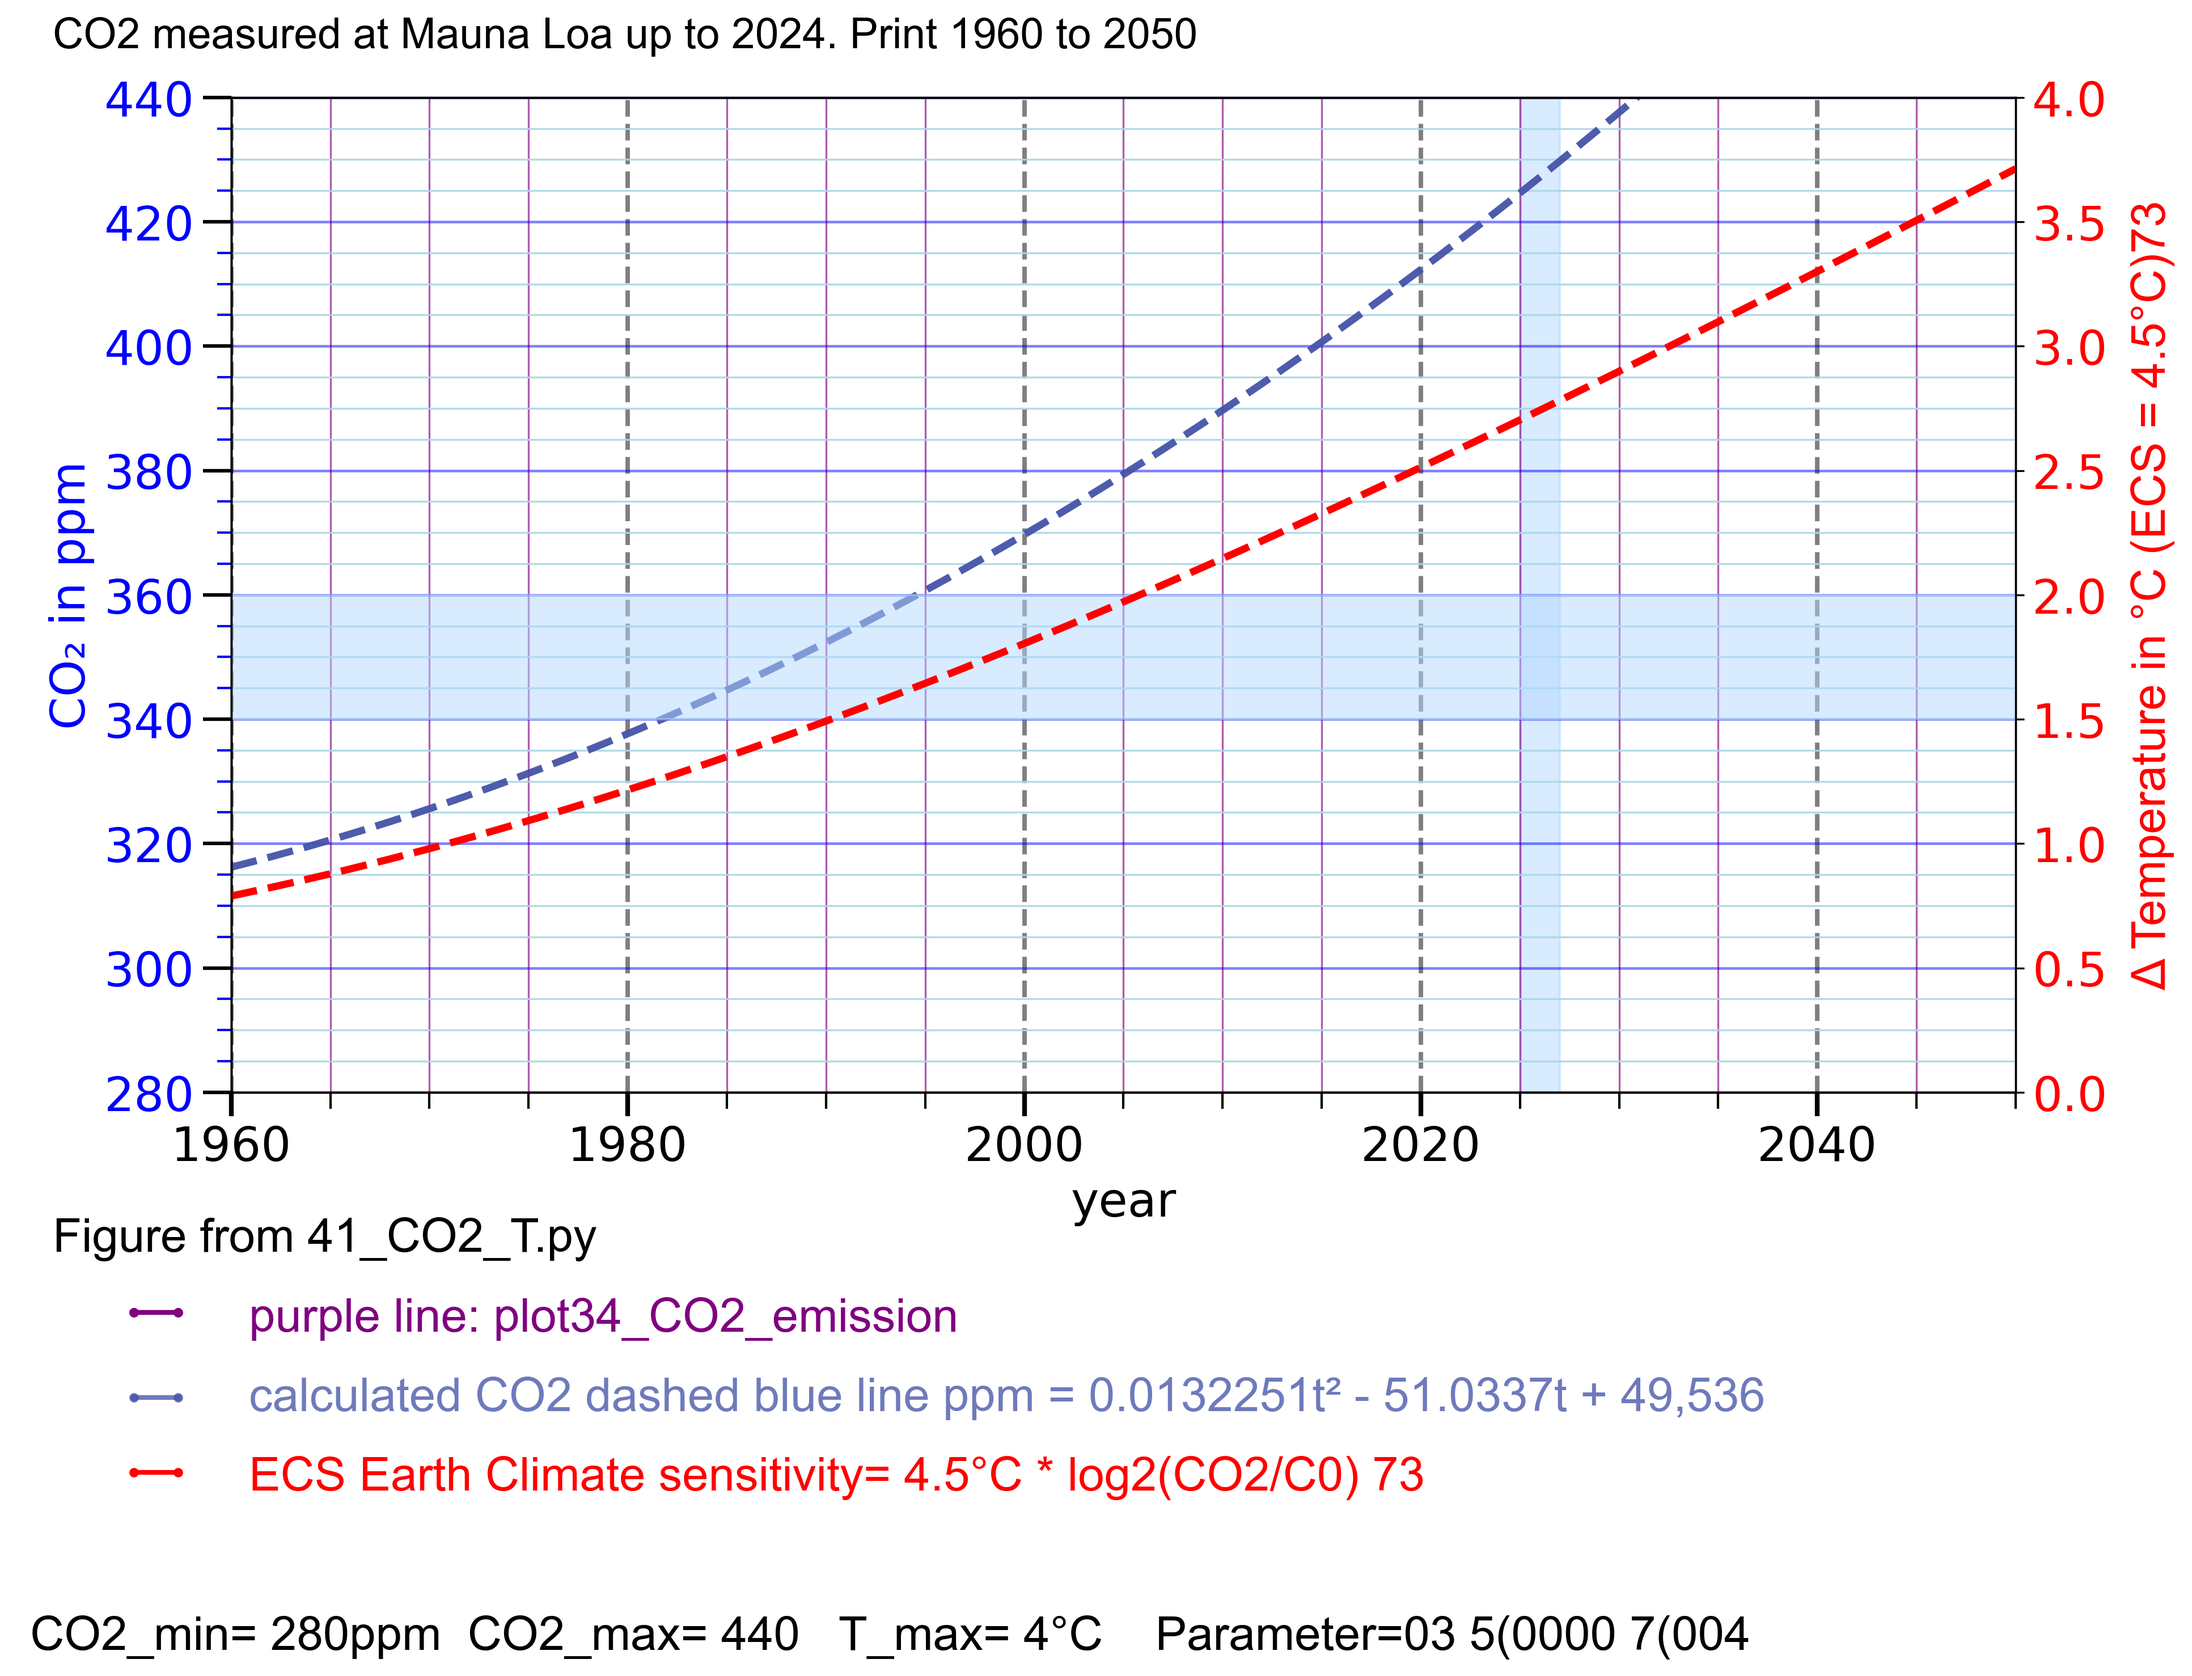
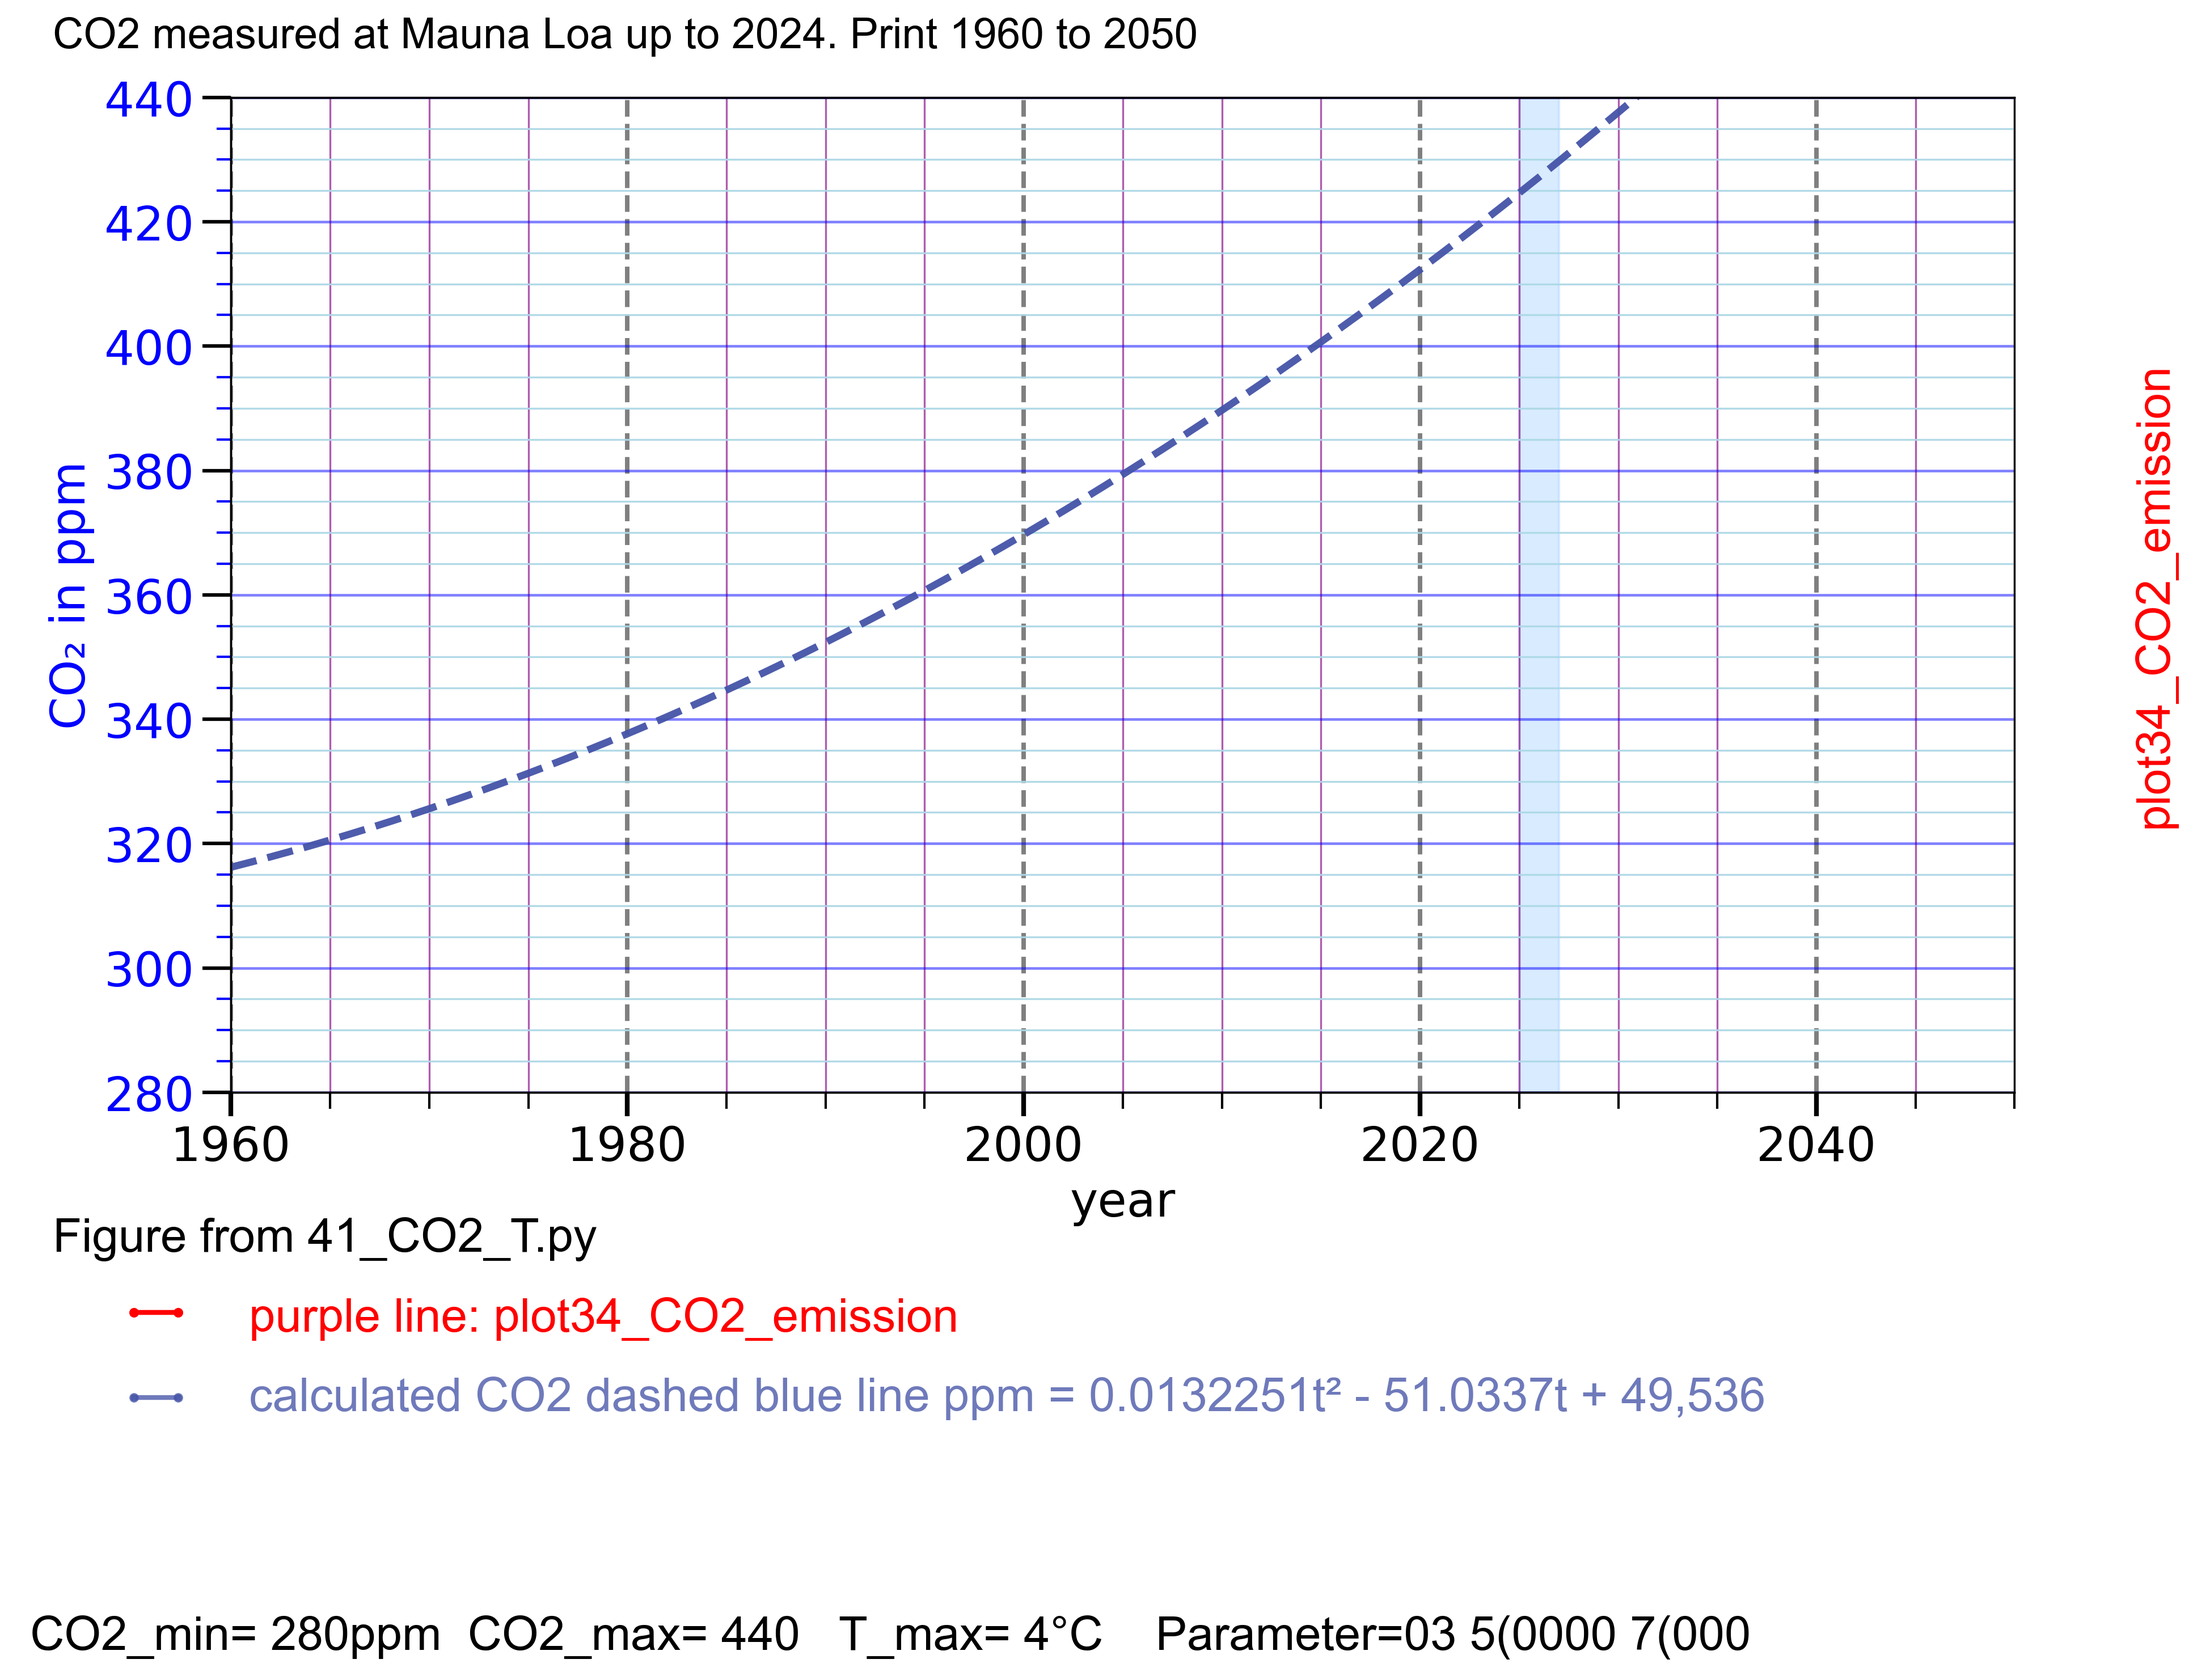
41y4_CO2_T.py work no co2_cumul.csv

diff --git a/41_CO2_T.py b/41_CO2_T.py
@@ -1,4 +1,4 @@
-# 41y3_CO2_T.py work no co2_cumul.csv
+# 41y4_CO2_T.py work no co2_cumul.csv
 # https://ourworldindata.org/grapher/cumulative-co-emissions
 # Thomas Boettcher
 # part 1 configure 
@@ -37,6 +37,7 @@ c23 = "#4554A8C6"   # c23 = "#4B3FD1"
 
 plot34_CO2_emission = 2 # 2, 0 cumulative CO2 emissions 1750 to 2024
 c34 = "purple"
+c34 = "red"
 # no part 4
 plot52_delta_CO2_red_bars = 0 # 8 0 7 4 keine delta_CO2 , 1 = delta_CO2 in rot , 7,8 mit Beschriftung   
 plot53_CO2_orange2025 = 0 # 3, 4, 0 orange Glen , 1 = 0.013t² - 51t + 49,536 in rot 3 works plot53_CO2_orange2025
@@ -216,23 +217,34 @@ if plot34_CO2_emission > 0:
    print34_text ="purple line: plot34_CO2_emission"
    df34 = pd.read_csv("co2_cumul.csv")
    cumul_co2_world = (
-         df34[df34["Entity"] == "World"][["Year", "Cumulat"]]
-         .query("1960 <= Year <= 2026")
-         .sort_values("Year")
+         df34[df34["Entity"] == "World"][["Year34", "Cumulat"]]
+         .query("1960 <= Year34 <= 2026")
+         .sort_values("Year34")
          .reset_index(drop=True)
       )
+   
+   # print(cumul_co2_world.head(10))
+   # Year       Cumulat
+   #  0  1960  308396160000
+   #  1  1961  317811160000
    cumul_co2_world_subset = cumul_co2_world[start:end]
    # 3.4.4 in Mt CO2
-   cumul_co2_world["Cumulat"] = cumul_co2_world["Cumulat"] / 1e6
-# 3.4.5 plot55_population_on=1
+   cumul_co2_world["Cumulat"] = cumul_co2_world["Cumulat"] / 1e9
+   print(cumul_co2_world.head(10))
+   #  Year    Cumulat
+   #    0  1960  308.39616
+   #    1  1961  317.81116
+
+
+# 3.4.5 plot34_CO2_emission
 if plot34_CO2_emission > 0:
    ax34 = ax1.twinx()
    ax34.spines.right.set_position(("outward", 20))
    ax34.spines["right"].set_visible(False) # remove right y-Achse
    ax34.tick_params(right=False, labelright=False) # remove Zahlen
-   ax34.plot(df34["Year"], df34["Cumulat"], '--', label="Glen formula CO2= 0.0132t² - 51t + 49,536 K6", color=c34, linewidth=3)
+   ax34.plot(df34["Year34"], df34["Cumulat"], '--', label="plot34_CO2_emission", color=c34, linewidth=3)
    ax34.tick_params(axis="y", labelcolor=c34)
-   ax34.set_ylim(0, 5000) # scale
+   ax34.set_ylim(0, 500) # scale
    ax34.spines.right.set_position(("outward", 20))
    #end 3.4.
 
@@ -626,13 +638,15 @@ elif plot52_delta_CO2_red_bars > 0:
       ax52.bar_label(bars, fontsize=8, fontname="Arial",padding=1, color="black")
 elif plot34_CO2_emission > 0:
    ax34.spines.right.set_position(("outward", 40))
-   ax34.plot(df34["Year"], df34["Cumulat"], '--', label="plot34_CO2_emission", color=c34, linewidth=3)
    ax34.set_ylabel("plot34_CO2_emission", color=c34,
                    fontname="Arial",fontsize=20,
                    labelpad=10   # smaller = closer to y axis
                    )
+   # ax55.plot(pop_world["Year"], pop_world["Population_Mrd"], marker="s", color="green", label="Earth Population in Billion K2")
+  
+   ax34.plot(df34["Year34"], df34["Cumulat"], marker="s", label="plot34_CO2_emission", color=c34, linewidth=3)
    ax34.tick_params(axis="y", labelcolor=c34)
-   ax34.set_ylim(1, 5000) #8
+   ax34.set_ylim(0, 500) #8
 
 
 # 8.5.9 
